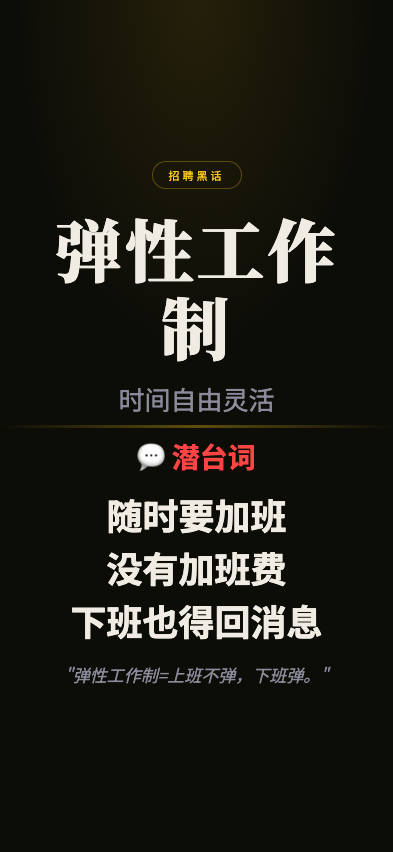
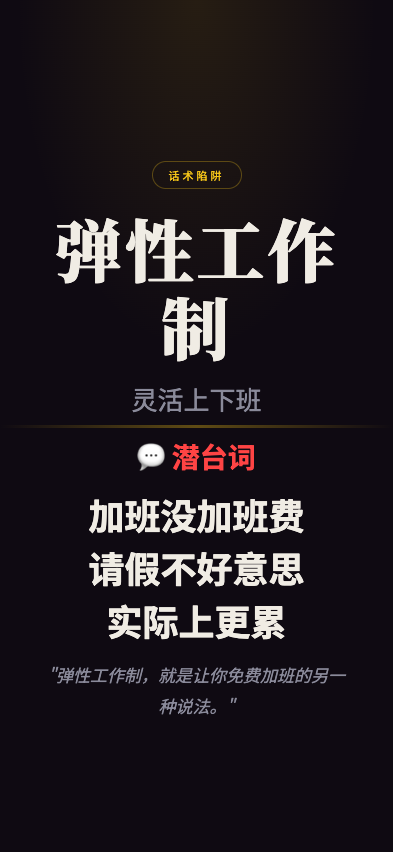
feat: 职场生存法则 screenshot - tanxinggongzuozhi

Changed region(s): [[0.1221, 0.5798, 0.855, 0.8545], [0.3053, 0.4577, 0.7023, 0.4883], [0.4275, 0.1831, 0.5802, 0.2136]]

diff --git a/wuliao-tools/tools/biz-speak/scenes/tanxinggongzuozhi.html b/wuliao-tools/tools/biz-speak/scenes/tanxinggongzuozhi.html
@@ -7,7 +7,7 @@
 <link href="https://fonts.googleapis.com/css2?family=Noto+Serif+SC:wght@400;700;900&family=Noto+Sans+SC:wght@300;400;700&display=swap" rel="stylesheet">
 <style>
   :root {
-    --bg: #0d0d08;
+    --bg: #0f0a12;
     --text: #f0ece4;
     --text-dim: #8a8a9a;
     --gold: #f5c518;
@@ -41,19 +41,19 @@
 </head>
 <body>
   <div class="top">
-    <div class="tag">招聘黑话</div>
+    <div class="tag">话术陷阱</div>
     <div class="main-title">弹性工作制</div>
-    <div class="sub-title">时间自由灵活</div>
+    <div class="sub-title">灵活上下班</div>
   </div>
   <div class="divider"></div>
   <div class="bottom">
     <div class="truth-label">💬 潜台词</div>
     <div class="truth-lines">
-      <div class="truth-line">随时要加班</div>
-      <div class="truth-line">没有加班费</div>
-      <div class="truth-line">下班也得回消息</div>
+      <div class="truth-line">加班没加班费</div>
+      <div class="truth-line">请假不好意思</div>
+      <div class="truth-line">实际上更累</div>
     </div>
-    <div class="quote">"弹性工作制=上班不弹，下班弹。"</div>
+    <div class="quote">"弹性工作制，就是让你免费加班的另一种说法。"</div>
   </div>
 </body>
 </html>
